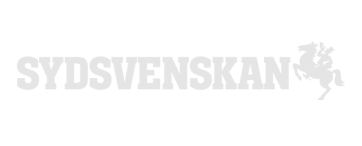
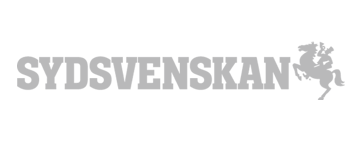
More testimonials

Changed region(s): [[0.0304, 0.274, 0.9724, 0.6849]]

diff --git a/stylesheets/app_v1.css b/stylesheets/app_v1.css
@@ -24016,13 +24016,42 @@ input.button:hover {
   }
 }
 
-/* line 646, ../scss/app_v1.scss */
+/* line 643, ../scss/app_v1.scss */
+#testimonials {
+  background-color: #15B6B5;
+  padding-top: 2.5rem;
+  padding-bottom: 3.125rem;
+  text-align: center;
+}
+
+/* line 650, ../scss/app_v1.scss */
+.testimonial {
+  margin-top: 15px;
+}
+/* line 654, ../scss/app_v1.scss */
+.testimonial p {
+  font-size: 24px;
+  font-family: 'Avenir-Book', 'Open Sans', sans-serif;
+  font-weight: normal;
+  margin-bottom: 0px !important;
+}
+
+/* line 662, ../scss/app_v1.scss */
 .pressImage {
   width: 181px;
   height: 73px;
+  opacity: .5;
+  transition: opacity .3s;
+  -moz-transition: opacity .3s;
+  -webkit-transition: opacity .3s;
+  -o-transition: opacity .3s;
+}
+/* line 673, ../scss/app_v1.scss */
+.pressImage:hover {
+  opacity: 1;
 }
 
-/* line 651, ../scss/app_v1.scss */
+/* line 679, ../scss/app_v1.scss */
 #footer {
   color: #0D8F8E;
   background-color: #15B6B5;
@@ -24030,35 +24059,35 @@ input.button:hover {
   padding-bottom: 1.25rem;
 }
 @media only screen and (min-width: 40.063em) {
-  /* line 651, ../scss/app_v1.scss */
+  /* line 679, ../scss/app_v1.scss */
   #footer {
     padding-top: 3.75rem;
     padding-bottom: 1.875rem;
   }
 }
 @media only screen and (min-width: 64.063em) {
-  /* line 651, ../scss/app_v1.scss */
+  /* line 679, ../scss/app_v1.scss */
   #footer {
     padding-top: 3.75rem;
     padding-bottom: 1.875rem;
   }
 }
-/* line 669, ../scss/app_v1.scss */
+/* line 697, ../scss/app_v1.scss */
 #footer .likeWrapper {
   margin-bottom: 1.25rem;
   height: 1.875rem;
 }
-/* line 675, ../scss/app_v1.scss */
+/* line 703, ../scss/app_v1.scss */
 #footer #footer_menu {
   margin: 0 auto;
   text-align: center;
 }
-/* line 681, ../scss/app_v1.scss */
+/* line 709, ../scss/app_v1.scss */
 #footer .footer_btn {
   display: inline-block;
   cursor: pointer;
 }
-/* line 687, ../scss/app_v1.scss */
+/* line 715, ../scss/app_v1.scss */
 #footer #fb_button {
   margin-right: 20px;
   background-repeat: no-repeat;
@@ -24068,17 +24097,17 @@ input.button:hover {
   background-size: 43px 44px;
 }
 @media only screen and (min-width: 40.063em) {
-  /* line 687, ../scss/app_v1.scss */
+  /* line 715, ../scss/app_v1.scss */
   #footer #fb_button {
     margin-right: 30px;
   }
 }
-/* line 703, ../scss/app_v1.scss */
+/* line 731, ../scss/app_v1.scss */
 #footer #fb_button:hover {
   background: url("../assets/images/buttons/fb_highlighted@2x.png");
   background-size: 43px 44px;
 }
-/* line 710, ../scss/app_v1.scss */
+/* line 738, ../scss/app_v1.scss */
 #footer #twitter_button {
   margin-right: 20px;
   background-repeat: no-repeat;
@@ -24088,17 +24117,17 @@ input.button:hover {
   background-size: 46px 38px;
 }
 @media only screen and (min-width: 40.063em) {
-  /* line 710, ../scss/app_v1.scss */
+  /* line 738, ../scss/app_v1.scss */
   #footer #twitter_button {
     margin-right: 30px;
   }
 }
-/* line 726, ../scss/app_v1.scss */
+/* line 754, ../scss/app_v1.scss */
 #footer #twitter_button:hover {
   background: url("../assets/images/buttons/twitter_highlighted@2x.png");
   background-size: 46px 38px;
 }
-/* line 733, ../scss/app_v1.scss */
+/* line 761, ../scss/app_v1.scss */
 #footer #insta_button {
   margin-right: 20px;
   background-repeat: no-repeat;
@@ -24108,17 +24137,17 @@ input.button:hover {
   background-size: 43px 44px;
 }
 @media only screen and (min-width: 40.063em) {
-  /* line 733, ../scss/app_v1.scss */
+  /* line 761, ../scss/app_v1.scss */
   #footer #insta_button {
     margin-right: 30px;
   }
 }
-/* line 749, ../scss/app_v1.scss */
+/* line 777, ../scss/app_v1.scss */
 #footer #insta_button:hover {
   background: url("../assets/images/buttons/instagram_highlighted@2x.png");
   background-size: 43px 44px;
 }
-/* line 756, ../scss/app_v1.scss */
+/* line 784, ../scss/app_v1.scss */
 #footer #blog_button {
   background-repeat: no-repeat;
   margin-right: 5px;
@@ -24128,27 +24157,27 @@ input.button:hover {
   background-size: 28px 47px;
 }
 @media only screen and (min-width: 40.063em) {
-  /* line 756, ../scss/app_v1.scss */
+  /* line 784, ../scss/app_v1.scss */
   #footer #blog_button {
     margin-right: 15px;
   }
 }
-/* line 772, ../scss/app_v1.scss */
+/* line 800, ../scss/app_v1.scss */
 #footer #blog_button:hover {
   background-repeat: no-repeat;
   background: url("../assets/images/buttons/blog_highlighted@2x.png");
   background-size: 28px 47px;
 }
-/* line 781, ../scss/app_v1.scss */
+/* line 809, ../scss/app_v1.scss */
 #footer a {
   color: #0D8F8E;
   text-decoration: underline;
 }
-/* line 786, ../scss/app_v1.scss */
+/* line 814, ../scss/app_v1.scss */
 #footer a:active {
   color: #0D8F8E;
 }
-/* line 791, ../scss/app_v1.scss */
+/* line 819, ../scss/app_v1.scss */
 #footer a:hover {
   color: #FFFFFF;
 }

diff --git a/index_usa.html b/index_usa.html
@@ -111,19 +111,35 @@
         </div>
       </div>
 
-      <div class="section" id="press">
+      <div class="section" id="testimonials">
+        
         <div class="row">
-          <h2>What people are saying</h2>
+          <div class="large-10 large-offset-1 columns center">
+            <h2>The press is saying</h2>
+          </div>
         </div>
+
         <div class="row">
-          <div class="large-4 large-offset-0 medium-4 medium-offset-0 small-10 small-offset-1 columns center">
+          <div class="large-4 large-offset-0 medium-5 medium-offset-1 small-20 small-offset-0 columns center">
             <div class="testimonial">
-              <h2>Raft wants you to ditch your old calendar (SE)</h2>
-              <p>The idea is to create a calendar that is fun and easy to use.</p>
-              <a href="http://breakit.se/artikel/595/startupen-raft-vill-att-du-dumpar-din-gamla-torra-kalenderapp"><img class="pressImage" src="testimonial_breakit@2x.png"></a>
+              <p><i>"The idea is to create a calendar that is fun and easy to use."</i></p>
+              <a href="http://breakit.se/artikel/595/startupen-raft-vill-att-du-dumpar-din-gamla-torra-kalenderapp"><img class="pressImage" src="assets/images/testimonial_breakit@2x.png"></a>
+            </div>
+          </div>
+          <div class="large-4 large-offset-0 medium-5 medium-inset-1 small-20 small-offset-0 columns center">
+            <div class="testimonial">
+              <p><i>"Raft makes it really easy to syncronize with each others calendars."</i></p>
+              <a href="http://blogg.gp.se/teknik/2015/02/06/raft-en-social-kalender/"><img class="pressImage" src="assets/images/testimonial_gp@2x.png"></a>
+            </div>
+          </div>
+          <div class="large-4 large-offset-0 medium-4 medium-offset-0 small-12 small-offset-0 columns center">
+            <div class="testimonial">
+              <p><i>"Share calendar with your partner and like & comment on your friends’ events."</i></p>
+              <a href="http://8till5.se/2015/03/27/livspusseltjansten-raft-stottas-av-skanska-telavox/"><img class="pressImage" src="assets/images/testimonial_sydsvenskan@2x.png"></a>
             </div>
           </div>
         </div>
+
       </div>
 
       <div class="section" id="signup">

diff --git a/scss/app_v1.scss b/scss/app_v1.scss
@@ -639,13 +639,41 @@ input.button
 }
 
 // Testemonials
-.testemonial{
 
+#testimonials{
+	background-color: $raftUser;
+	padding-top:rem-calc(40px);
+	padding-bottom:rem-calc(50px);
+	text-align: center;
+}
+
+.testimonial{
+	
+	margin-top:15px;
+
+	p{
+		font-size: 24px;
+		font-family: 'Avenir-Book', 'Open Sans', sans-serif;
+		font-weight: normal;
+		margin-bottom: 0px !important;
+	}
 }
 
 .pressImage{
 	width:181px;
 	height:73px;
+
+ 	opacity: .5;
+ 	
+    transition: opacity .3s;
+    -moz-transition: opacity .3s;
+    -webkit-transition: opacity .3s;
+    -o-transition: opacity .3s;
+
+	&:hover
+	{
+		opacity: 1;
+	}
 }
 
 #footer
